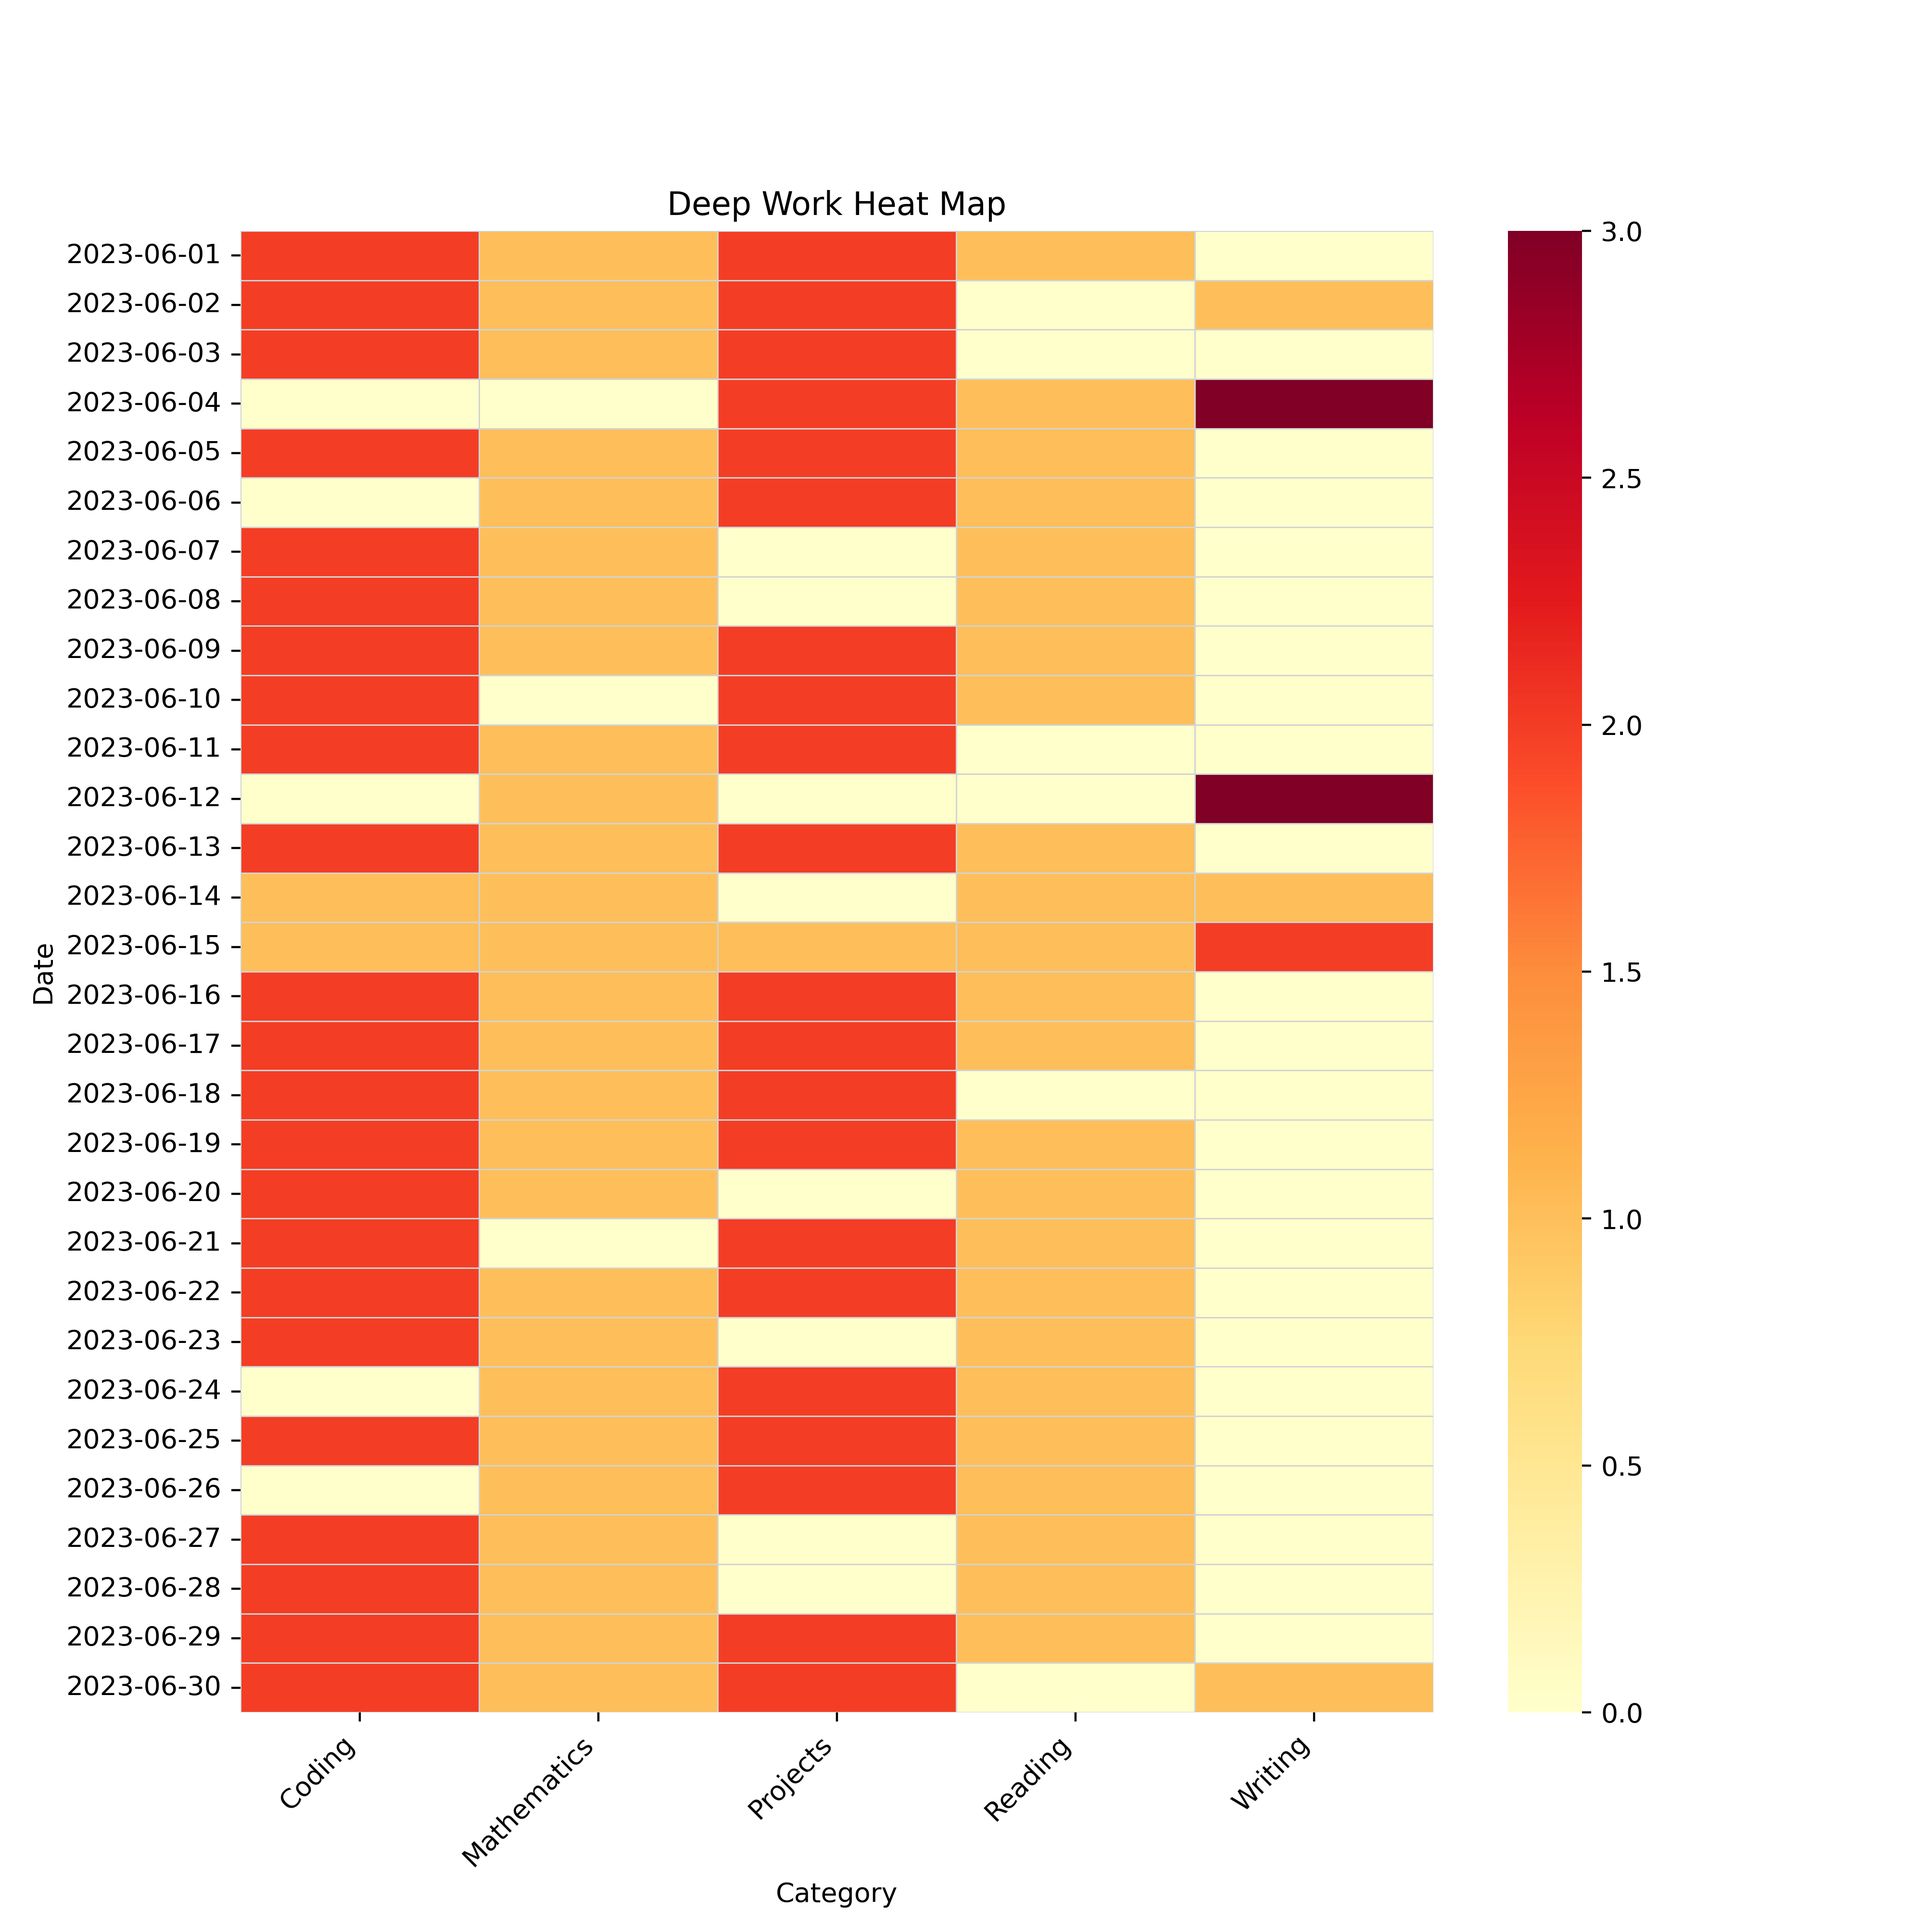
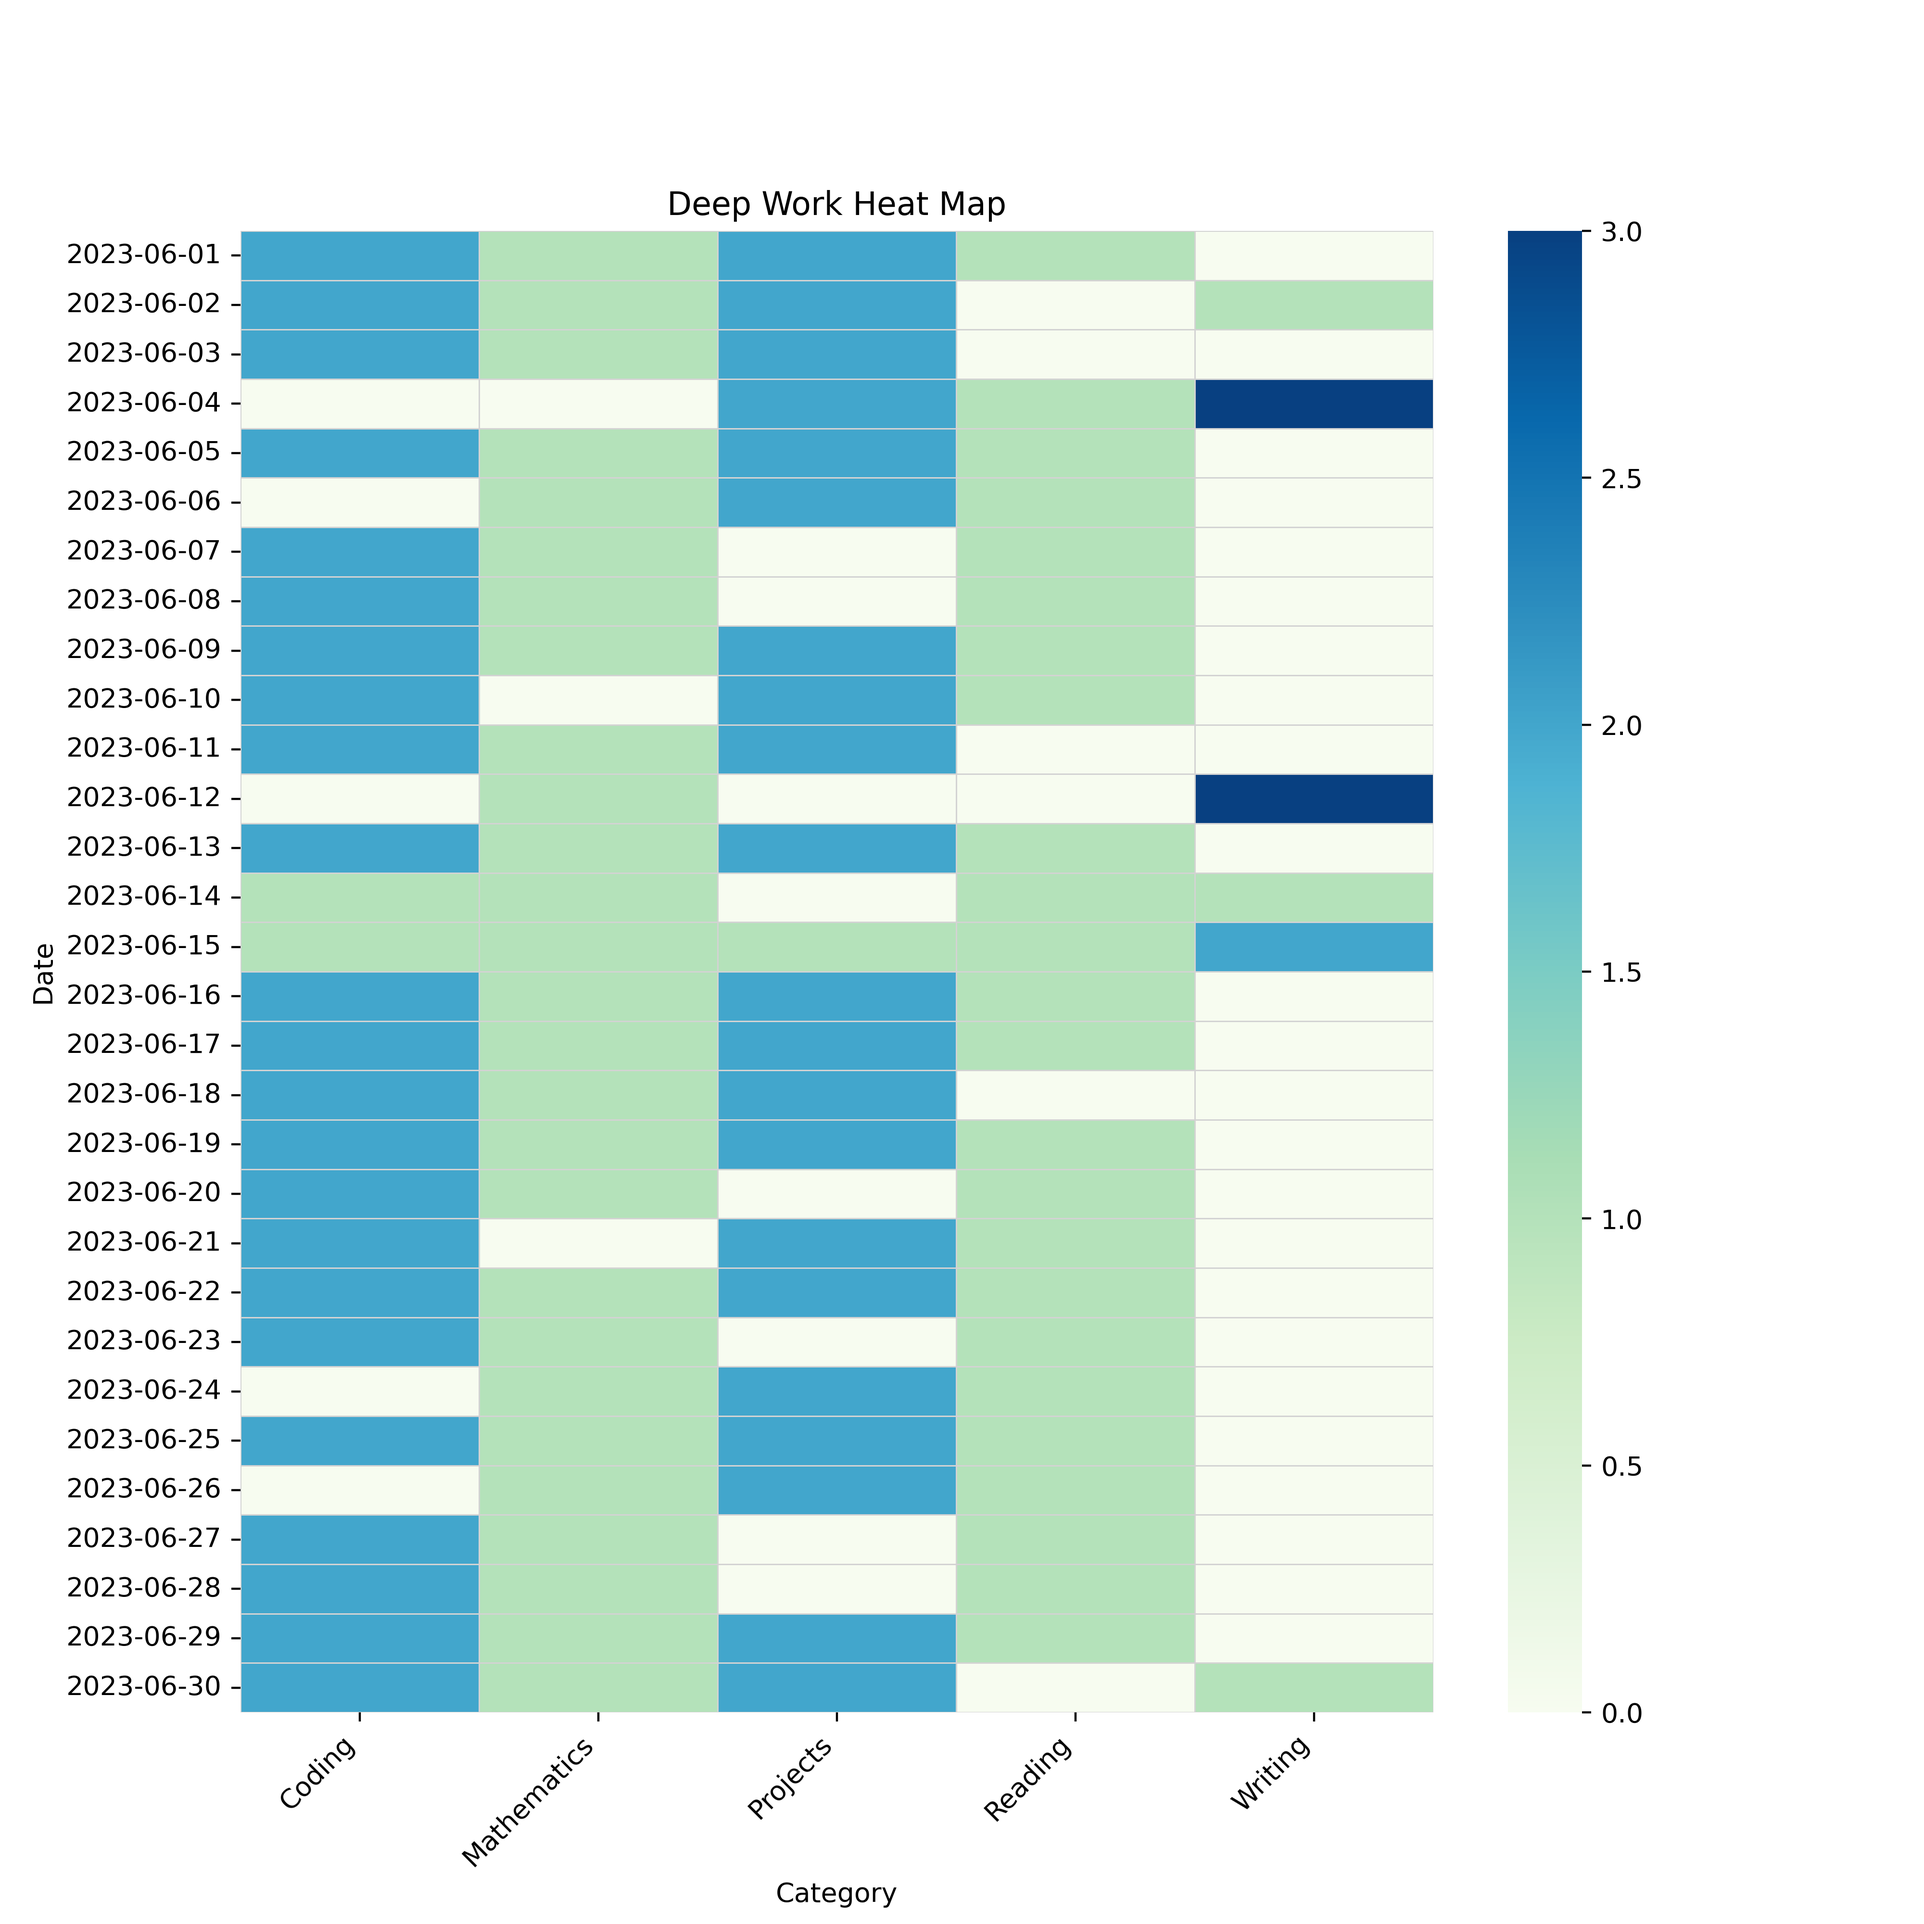
update color scheme

diff --git a/june_2023/update_monthly_summary.py b/june_2023/update_monthly_summary.py
@@ -67,7 +67,7 @@ def generate_charts(file_path):
     
     fig, ax = plt.subplots(figsize=(10, 10))
     
-    sns.heatmap(heat_map_data.pivot(index='Date', columns='Category', values='Hours'), cmap='YlOrRd', linewidths=0.5, linecolor='lightgrey', ax=ax)
+    sns.heatmap(heat_map_data.pivot(index='Date', columns='Category', values='Hours'), cmap='GnBu', linewidths=0.5, linecolor='lightgrey', ax=ax)
     
     ax.set_title('Deep Work Heat Map')
     
